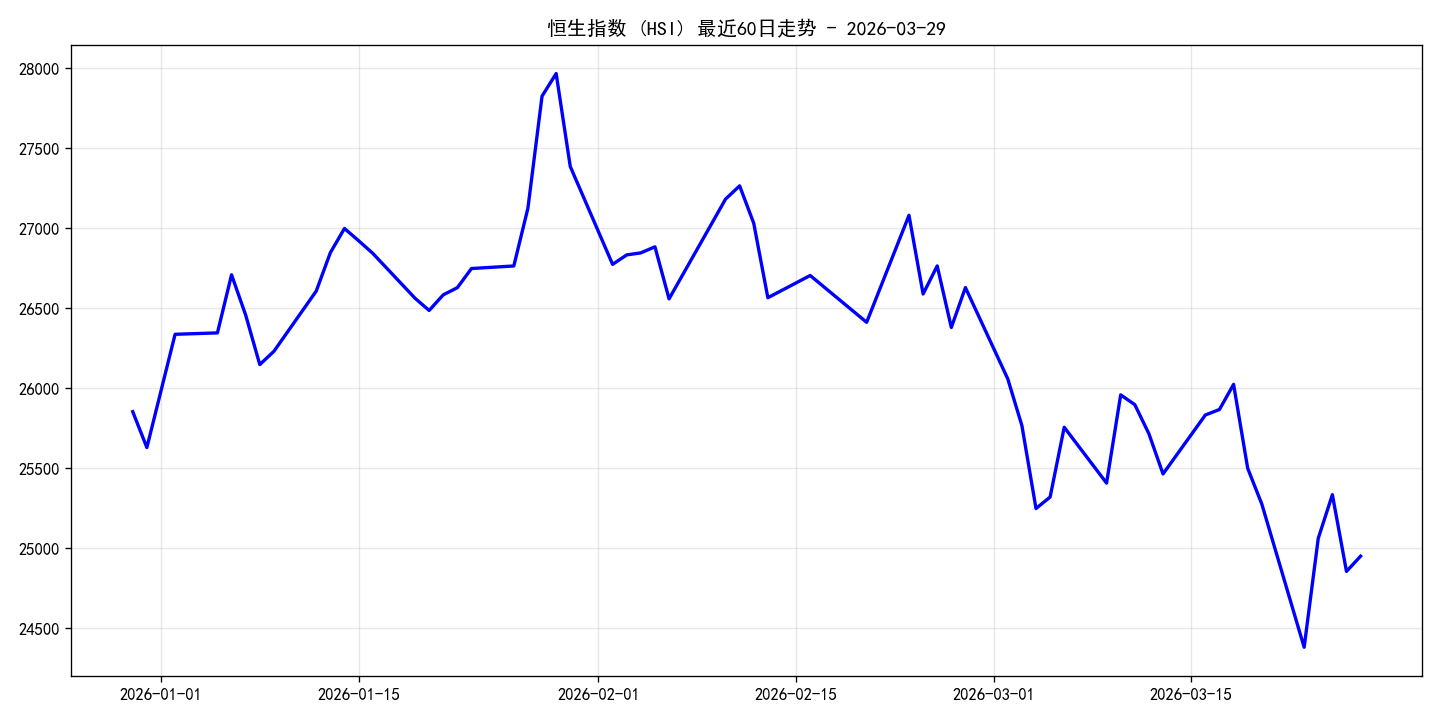
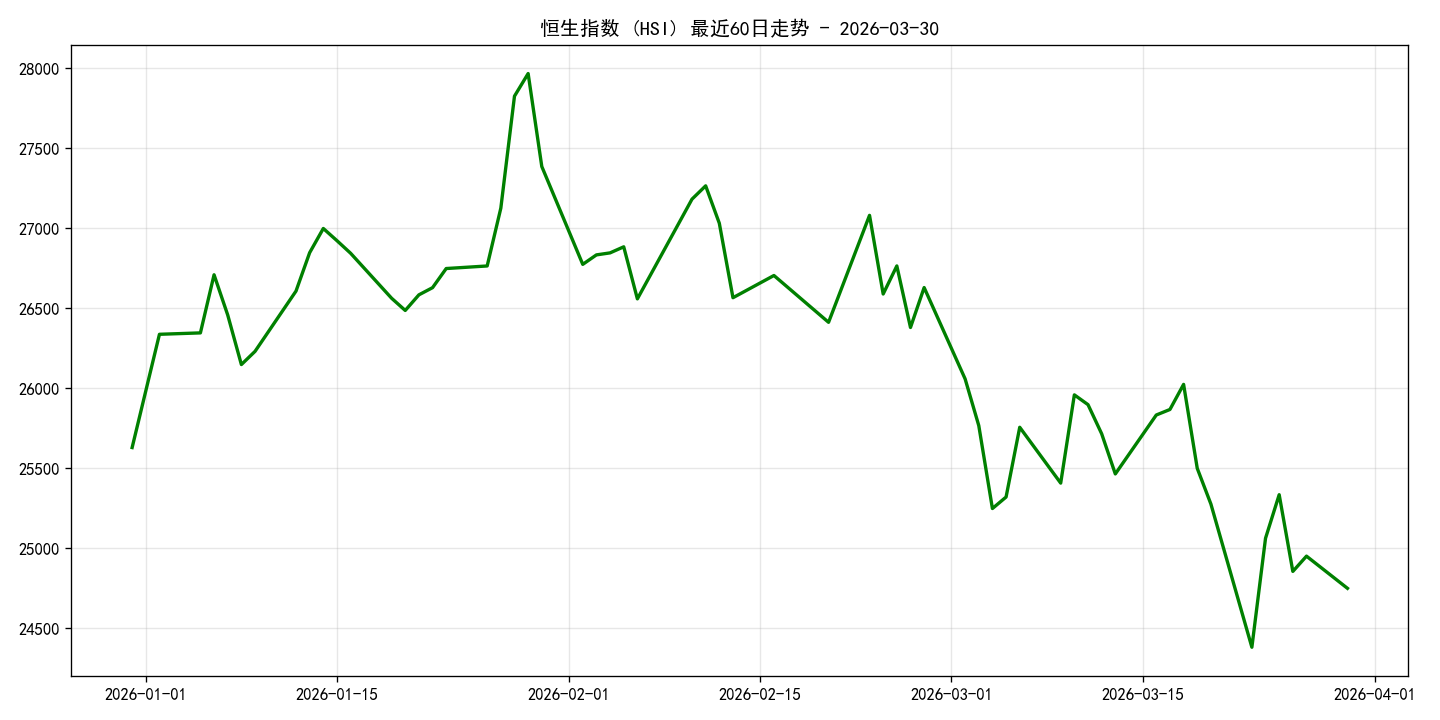
Auto: Daily HK-share Recap Update

diff --git a/hkshare_recap.html b/hkshare_recap.html
@@ -3,7 +3,7 @@
 <head>
     <meta charset="UTF-8">
     <meta name="viewport" content="width=device-width, initial-scale=1.0">
-    <title>港股收盘复盘 - 2026-03-29</title>
+    <title>港股收盘复盘 - 2026-03-30</title>
     <style>
         body { font-family: sans-serif; padding: 20px; line-height: 1.6; max-width: 800px; margin: 0 auto; background: #f9f9f9; }
         .card { background: white; padding: 20px; border-radius: 12px; shadow: 0 4px 10px rgba(0,0,0,0.1); }
@@ -15,12 +15,12 @@
 </head>
 <body>
     <div class="card">
-        <h1>港股收盘复盘 (2026-03-29)</h1>
+        <h1>港股收盘复盘 (2026-03-30)</h1>
         <div class="stat">
-            恒生指数 (HSI)：24951.88 
-            <span class="up">(+0.38%)</span>
+            恒生指数 (HSI)：24750.79 
+            <span class="down">(-0.81%)</span>
         </div>
-        <p>今日港股市场呈现<strong>上涨</strong>态势。恒指当前点位为 24951.88 点。</p>
+        <p>今日港股市场呈现<strong>下跌</strong>态势。恒指当前点位为 24750.79 点。</p>
         <img src="hkshare_recap_trend.png" alt="Trend">
         <hr>
         <p style="text-align: center; color: #666;">自动生成于收盘后一小时 | 投研助手 Q</p>
